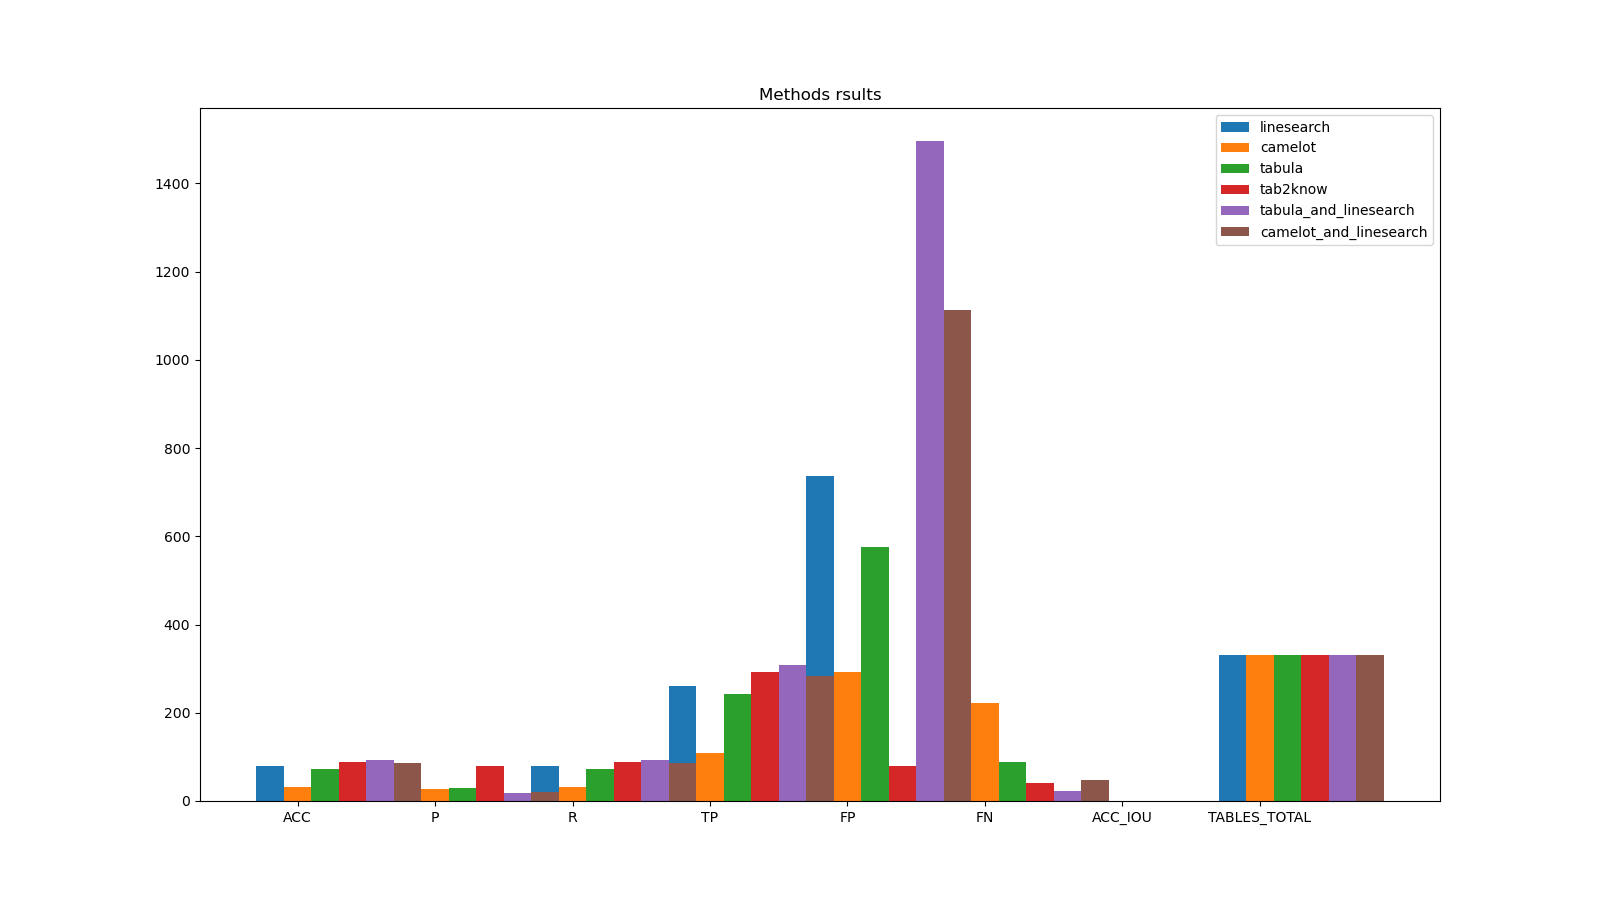
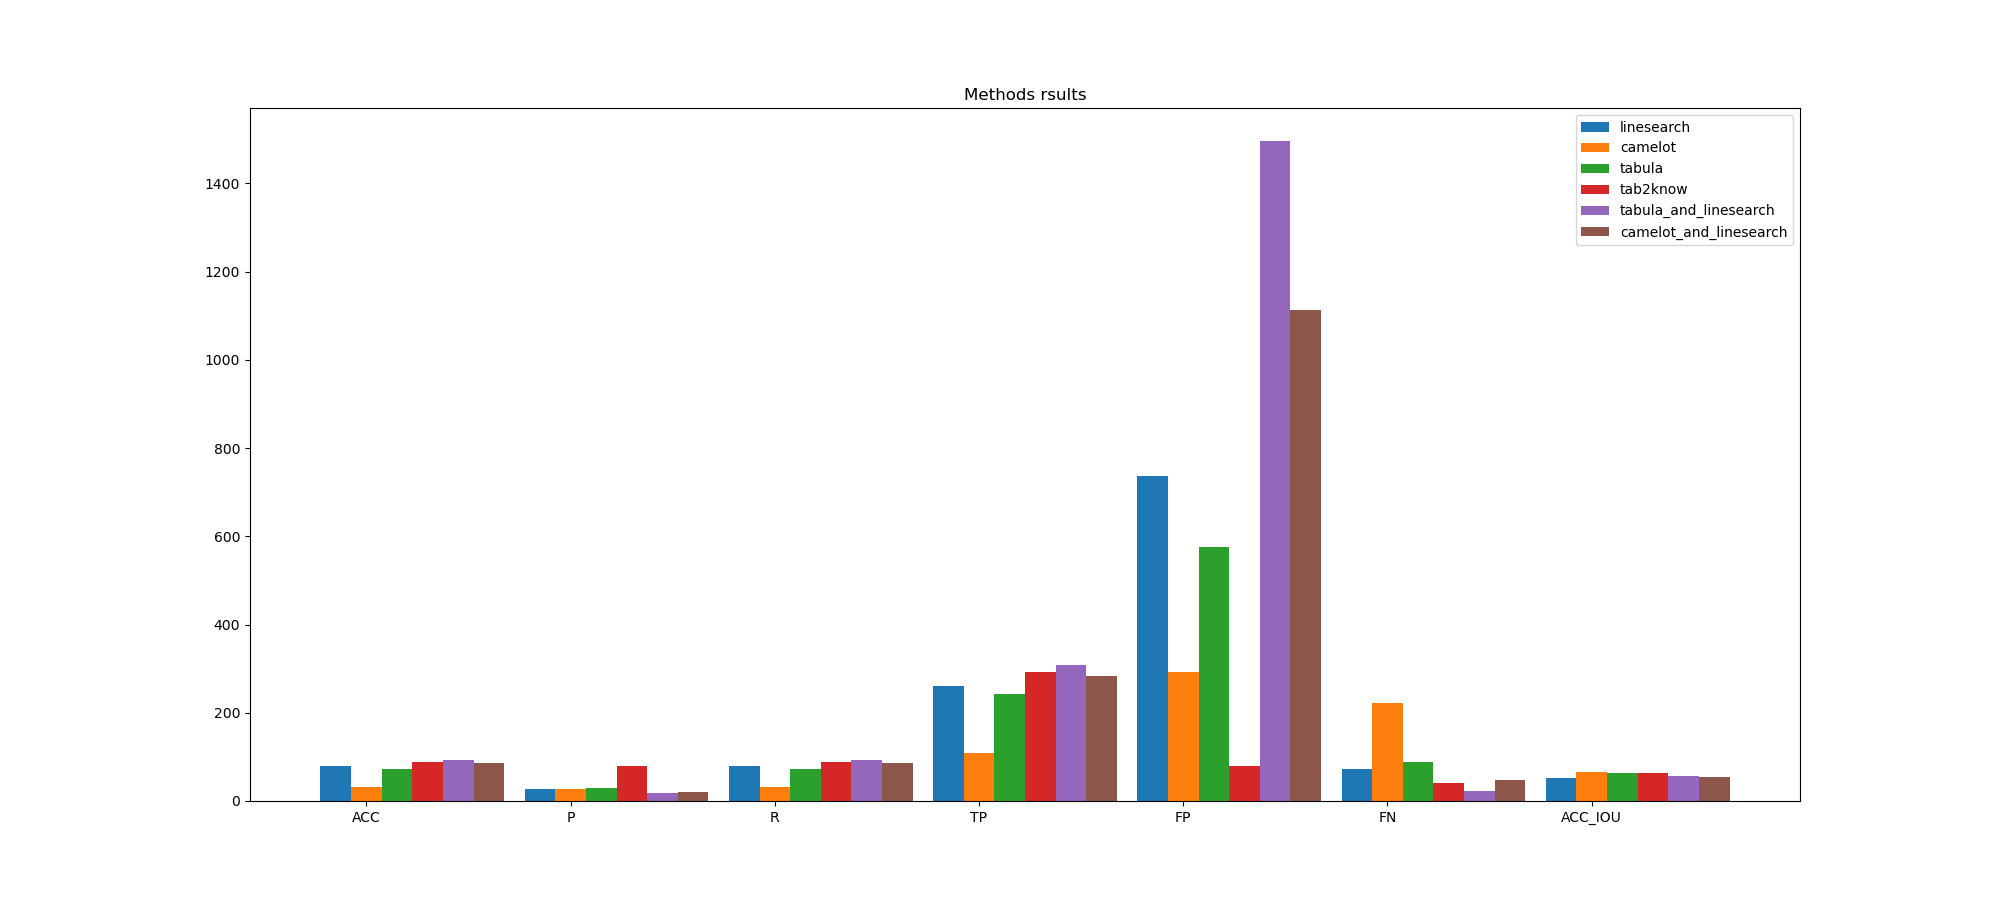
Updated scores and plots with percentage IoU

diff --git a/core/analysis/results_plotter.py b/core/analysis/results_plotter.py
@@ -22,8 +22,8 @@ def create_results_plot(json_data:dict, path_out:str):
     methods = list(json_data.keys())
     for k, v in json_data.items():
         data.append(list(v.values()))
-    fig = plt.subplots(figsize=(16,9))
-    bar_width = 0.20
+    fig = plt.subplots(figsize=(20,9))
+    bar_width = 0.15
     first_key = list(json_data.keys())[0]
     X = np.arange(len(json_data[first_key]))
     for i, d in enumerate(data):
@@ -89,8 +89,7 @@ def plot_save_results(TP, TN, FP, FN, acc_iou, files_percentage_ok, method_used=
            "TP": TP,
            "FP": FP,
            "FN": FN,
-           "ACC_IOU": ACC_IOU,
-           "TABLES_TOTAL": tables_num,
+           "ACC_IOU": round(ACC_IOU*100, 2)
        }
     interesting_metrics = "{}: ACC: {:.2f}%, P: {:.2f}%, R: {:.2f}%, ({} tables)".format(method_used,  acc*100, precision*100, recall*100, tables_num)
     all_metrics_row = "TP: {}, FP: {}, FN: {}, IoU: {:.2f}".format(TP,FP,FN, ACC_IOU*100)
